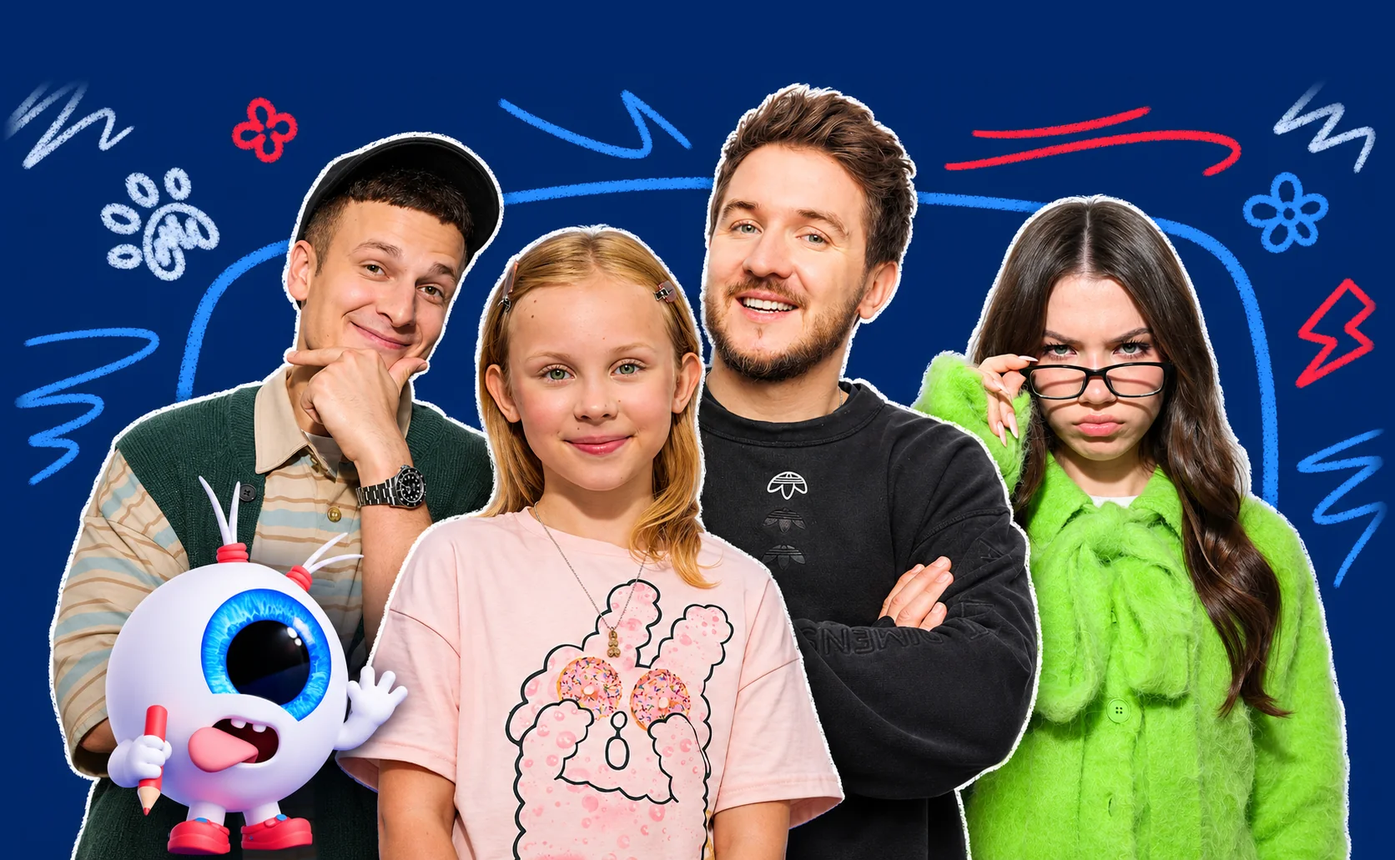
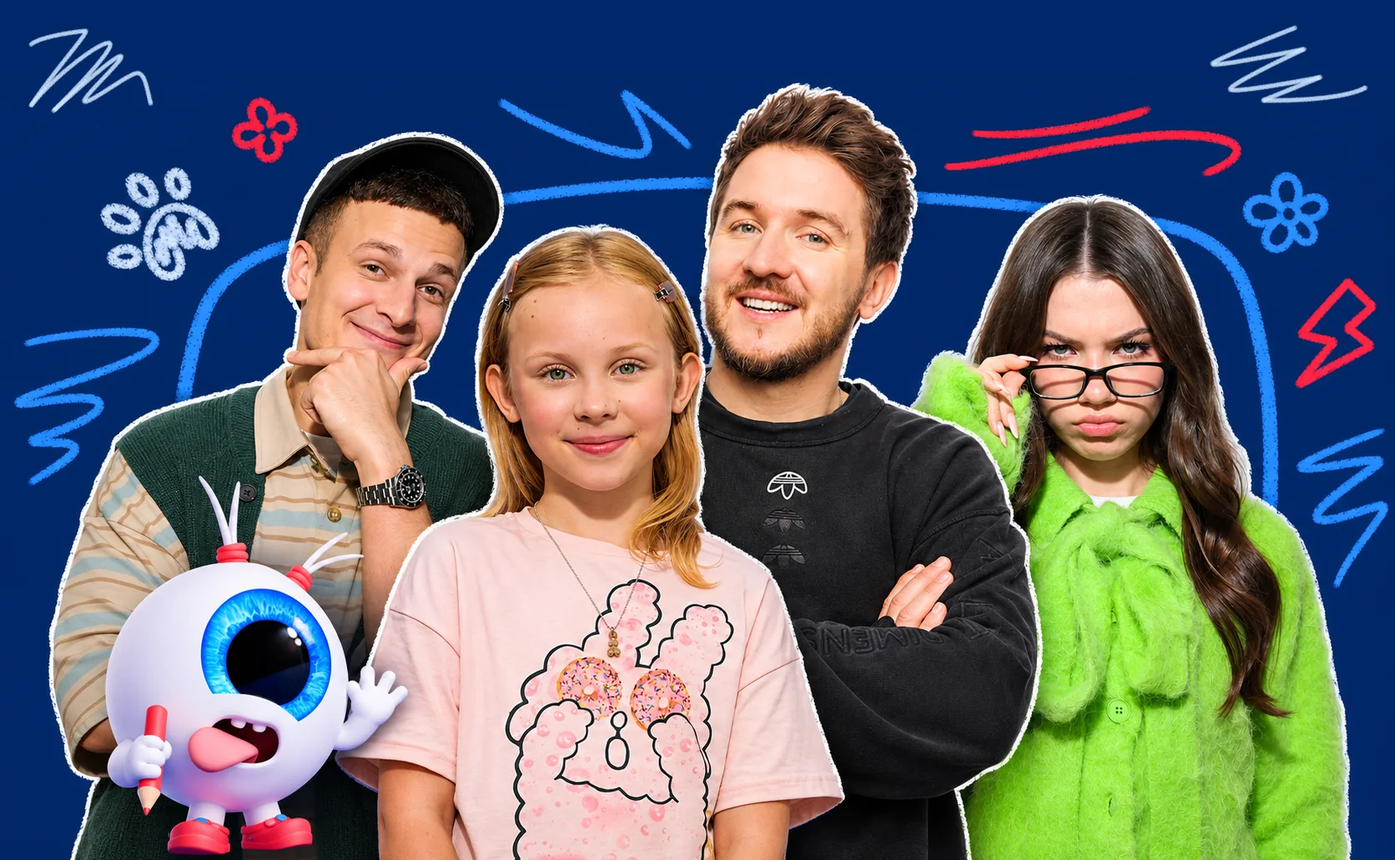
Коллаж Василисы 3:2 и меньше обложки, на обложке декор целиком

diff --git a/index.html b/index.html
@@ -19,7 +19,7 @@
   <meta name="twitter:card" content="summary_large_image">
   <title>«Так Бруно и Вики Шоу сказали!»: как популярные блогеры вместе с Василисой Кукоякой учат детей хорошему — VK Видео × НЭН</title>
   <link rel="preload" href="assets/fonts/onest-600.ttf" as="font" type="font/ttf" crossorigin>
-  <link rel="stylesheet" href="styles.css?v=6aa960fd">
+  <link rel="stylesheet" href="styles.css?v=72d95564">
   <script>document.documentElement.classList.add('js')</script>
   <script>
     // Страница отдается мимо шаблона сайта — общий счетчик сюда не попадает, поэтому свой.
@@ -48,7 +48,7 @@
       <h1 id="page-title"><span class="hl">«Так Бруно и Вики Шоу сказали!»:</span> как популярные блогеры вместе с Василисой Кукоякой учат детей хорошему в VK Видео</h1>
       <p class="subtitle">И почему иногда ребенок слушает их внимательнее родителей</p>
       <figure class="hero-media">
-        <img class="hero-image" src="assets/img/hero.webp?v=6aa960fd" width="1672" height="1031" alt="Василиса Кукояка, Вильям Бруно, Вики Шоу и Денис Кукояка" fetchpriority="high">
+        <img class="hero-image" src="assets/img/hero.webp?v=72d95564" width="1672" height="1031" alt="Василиса Кукояка, Вильям Бруно, Вики Шоу и Денис Кукояка" fetchpriority="high">
         <figcaption class="credit">Фото предоставлены VK</figcaption>
       </figure>
     </section>
@@ -62,15 +62,15 @@
     <figure class="collage reveal-collage" data-collage>
       <div class="collage-stage">
         <span class="collage-card chalk-box" aria-hidden="true"></span>
-        <img class="c-deco c-arcs" style="--d:-40" src="assets/img/deco-blue-arcs.webp?v=6aa960fd" alt="" aria-hidden="true">
-        <img class="c-deco c-zigzag" style="--d:-70" src="assets/img/deco-white-zigzag.webp?v=6aa960fd" alt="" aria-hidden="true">
-        <img class="c-deco c-flowers" style="--d:-60" src="assets/img/deco-flowers.webp?v=6aa960fd" alt="" aria-hidden="true">
-        <img class="c-deco c-lightning" style="--d:-90" src="assets/img/deco-lightning.webp?v=6aa960fd" alt="" aria-hidden="true">
-        <img class="c-deco c-arrow" style="--d:-30" src="assets/img/deco-blue-arrow.webp?v=6aa960fd" alt="" aria-hidden="true">
-        <img class="collage-person" src="assets/img/collage-vasya.webp?v=6aa960fd" width="886" height="1514" alt="Василиса Кукояка" loading="lazy">
-        <img class="c-deco c-red" style="--d:40" src="assets/img/deco-red-strokes.webp?v=6aa960fd" alt="" aria-hidden="true">
-        <img class="c-deco c-paw" style="--d:30" src="assets/img/deco-paw.webp?v=6aa960fd" alt="" aria-hidden="true">
-        <img class="c-deco c-eyeball" style="--d:-50" src="assets/img/eye-joy.webp?v=6aa960fd" alt="" aria-hidden="true">
+        <img class="c-deco c-arcs" style="--d:-40" src="assets/img/deco-blue-arcs.webp?v=72d95564" alt="" aria-hidden="true">
+        <img class="c-deco c-zigzag" style="--d:-70" src="assets/img/deco-white-zigzag.webp?v=72d95564" alt="" aria-hidden="true">
+        <img class="c-deco c-flowers" style="--d:-60" src="assets/img/deco-flowers.webp?v=72d95564" alt="" aria-hidden="true">
+        <img class="c-deco c-lightning" style="--d:-90" src="assets/img/deco-lightning.webp?v=72d95564" alt="" aria-hidden="true">
+        <img class="c-deco c-arrow" style="--d:-30" src="assets/img/deco-blue-arrow.webp?v=72d95564" alt="" aria-hidden="true">
+        <img class="collage-person" src="assets/img/collage-vasya.webp?v=72d95564" width="886" height="1514" alt="Василиса Кукояка" loading="lazy">
+        <img class="c-deco c-red" style="--d:40" src="assets/img/deco-red-strokes.webp?v=72d95564" alt="" aria-hidden="true">
+        <img class="c-deco c-paw" style="--d:30" src="assets/img/deco-paw.webp?v=72d95564" alt="" aria-hidden="true">
+        <img class="c-deco c-eyeball" style="--d:-50" src="assets/img/eye-joy.webp?v=72d95564" alt="" aria-hidden="true">
         <span class="collage-tag">Василиса Кукояка</span>
       </div>
       <figcaption class="credit">Фото предоставлено VK</figcaption>
@@ -86,18 +86,18 @@
 
       <div class="strip" data-strip aria-label="Кадры со съемок «ВК о важном»">
         <div class="strip-track">
-          <img src="assets/img/set-road.webp?v=6aa960fd" width="960" height="640" alt="Съемки выпуска о безопасности на дороге" loading="lazy">
-          <img src="assets/img/set-room.webp?v=6aa960fd" width="960" height="640" alt="Василиса и Вильям Бруно в декорации детской комнаты" loading="lazy">
-          <img src="assets/img/set-stranger.webp?v=6aa960fd" width="960" height="640" alt="Съемки выпуска о незнакомце" loading="lazy">
-          <img src="assets/img/set-door.webp?v=6aa960fd" width="960" height="640" alt="Василиса с блогером у двери подъезда" loading="lazy">
-          <img src="assets/img/set-playground.webp?v=6aa960fd" width="960" height="640" alt="Съемки на детской площадке" loading="lazy">
+          <img src="assets/img/set-road.webp?v=72d95564" width="960" height="640" alt="Съемки выпуска о безопасности на дороге" loading="lazy">
+          <img src="assets/img/set-room.webp?v=72d95564" width="960" height="640" alt="Василиса и Вильям Бруно в декорации детской комнаты" loading="lazy">
+          <img src="assets/img/set-stranger.webp?v=72d95564" width="960" height="640" alt="Съемки выпуска о незнакомце" loading="lazy">
+          <img src="assets/img/set-door.webp?v=72d95564" width="960" height="640" alt="Василиса с блогером у двери подъезда" loading="lazy">
+          <img src="assets/img/set-playground.webp?v=72d95564" width="960" height="640" alt="Съемки на детской площадке" loading="lazy">
         </div>
         <p class="credit credit-strip">Фото предоставлены VK</p>
       </div>
 
       <div class="text">
         <figure class="quote quote-denis reveal">
-          <figcaption><img class="ava" src="assets/img/ava-denis.webp?v=6aa960fd" width="240" height="240" alt="" loading="lazy"><span class="who"><b>Денис Кукояка</b><span>блогер, папа Василисы</span></span></figcaption>
+          <figcaption><img class="ava" src="assets/img/ava-denis.webp?v=72d95564" width="240" height="240" alt="" loading="lazy"><span class="who"><b>Денис Кукояка</b><span>блогер, папа Василисы</span></span></figcaption>
           <blockquote>
             <p>Дети гораздо лучше воспринимают информацию, когда она приходит через игру, а не в формате «нельзя». Мы хотим, чтобы маленькие зрители сыграли вместе с Василисой и кумирами детей и запомнили правила.</p>
             <p>Наш проект рассчитан одновременно на детей и родителей. Дети получают понятный и увлекательный контент в привычном формате, а родители — повод поговорить с ребенком о правилах и ситуациях, которые не всегда легко объяснить самостоятельно.</p>
@@ -108,7 +108,7 @@
     </section>
 
     <section class="chapter" id="phone">
-      <img class="edge-deco edge-l" style="top:40px" src="assets/img/deco-paw2.webp?v=6aa960fd" alt="" aria-hidden="true" loading="lazy">
+      <img class="edge-deco edge-l" style="top:40px" src="assets/img/deco-paw2.webp?v=72d95564" alt="" aria-hidden="true" loading="lazy">
       <div class="text">
         <h2 class="reveal">Шестьдесят часов видео за один день: выпуск про телефон</h2>
       </div>
@@ -120,7 +120,7 @@
         <p class="reveal">Почему к таким советам Вася прислушивается, а к родительскому «убирай телефон» — нет, Василиса объясняет сама.</p>
 
         <figure class="quote quote-vasilisa reveal">
-          <figcaption><img class="ava" src="assets/img/ava-vasilisa.webp?v=6aa960fd" width="240" height="240" alt="" loading="lazy"><span class="who"><b>Василиса Кукояка</b><span>блогер, ведущая проекта «ВК о важном»</span></span></figcaption>
+          <figcaption><img class="ava" src="assets/img/ava-vasilisa.webp?v=72d95564" width="240" height="240" alt="" loading="lazy"><span class="who"><b>Василиса Кукояка</b><span>блогер, ведущая проекта «ВК о важном»</span></span></figcaption>
           <blockquote>
             <p>Ну, потому что я тоже ребенок! И я сама люблю сидеть в телефоне. Я же не говорю, что телефон — это ужасно и его надо выбросить. Я сама бы так не сделала.</p>
             <p>Просто когда родители говорят: «Все, убирай телефон», тебе сразу не хочется его убирать. А когда другой ребенок тебе <span class="nw">что-то</span> рассказывает, ты понимаешь, что у него тоже такое бывает.</p>
@@ -129,7 +129,7 @@
       </div>
 
       <aside class="expert reveal" aria-label="Комментарий психолога">
-        <div class="expert-person"><div class="expert-photo"><img src="assets/img/kiselnikova.webp?v=6aa960fd" width="300" height="286" alt="Наталья Кисельникова" loading="lazy"></div><div><h3>Наталья Кисельникова</h3><p>кандидат психологических наук, методолог платформы психологической помощи детям, подросткам и родителям «Балансити»</p></div></div>
+        <div class="expert-person"><div class="expert-photo"><img src="assets/img/kiselnikova.webp?v=72d95564" width="300" height="286" alt="Наталья Кисельникова" loading="lazy"></div><div><h3>Наталья Кисельникова</h3><p>кандидат психологических наук, методолог платформы психологической помощи детям, подросткам и родителям «Балансити»</p></div></div>
         <div class="expert-copy">
           <p class="q">Милана говорит, что в телефоне нормально сидеть пару часов в день. Согласны ли вы с такой нормой?</p>
           <p>Младшим школьникам, лет семи-девяти, разумнее брать час с небольшим в день, а в десять-двенадцать лет — можно почти по два часа. Речь тут идет только о развлечениях: уроки и домашка сюда не входят. Это примерные ориентиры: жесткие лимиты в минутах ВОЗ и <a href="https://doi.org/10.1542/peds.2016-2591" target="_blank" rel="noopener noreferrer">Американская академия педиатрии</a> дают только для дошкольников, а родителям детей постарше советуют составить <a href="https://www.healthychildren.org/English/fmp/Pages/MediaPlan.aspx" target="_blank" rel="noopener noreferrer">семейный медиаплан</a>.</p>
@@ -141,7 +141,7 @@
     </section>
 
     <section class="chapter" id="fight">
-      <img class="edge-deco edge-r" style="top:20px" src="assets/img/deco-lightning.webp?v=6aa960fd" alt="" aria-hidden="true" loading="lazy">
+      <img class="edge-deco edge-r" style="top:20px" src="assets/img/deco-lightning.webp?v=72d95564" alt="" aria-hidden="true" loading="lazy">
       <div class="text">
         <h2 class="reveal">Кулаки отменяются, наорать тоже нельзя: выпуск про драку</h2>
       </div>
@@ -153,7 +153,7 @@
         <p class="reveal">Слова «драться нельзя» дети слышат постоянно, и Василиса признается, что как раз такие разговоры ей скучнее всего слушать.</p>
 
         <figure class="quote quote-vasilisa reveal">
-          <figcaption><img class="ava" src="assets/img/ava-vasilisa.webp?v=6aa960fd" width="240" height="240" alt="" loading="lazy"><span class="who"><b>Василиса Кукояка</b><span>блогер, ведущая проекта «ВК о важном»</span></span></figcaption>
+          <figcaption><img class="ava" src="assets/img/ava-vasilisa.webp?v=72d95564" width="240" height="240" alt="" loading="lazy"><span class="who"><b>Василиса Кукояка</b><span>блогер, ведущая проекта «ВК о важном»</span></span></figcaption>
           <blockquote>
             <p>Когда взрослые начинают говорить: «Так, сядь, послушай меня внимательно, сейчас я тебе объясню», я уже понимаю, что сейчас будет <span class="nw">что-то</span> скучное. Особенно когда они очень долго объясняют то, что я и так знаю. Ну типа, что драться нельзя. Я же знаю, что нельзя!</p>
           </blockquote>
@@ -162,7 +162,7 @@
         <p class="reveal">Денис с дочерью согласен.</p>
 
         <figure class="quote quote-denis reveal">
-          <figcaption><img class="ava" src="assets/img/ava-denis.webp?v=6aa960fd" width="240" height="240" alt="" loading="lazy"><span class="who"><b>Денис Кукояка</b><span>блогер, папа Василисы</span></span></figcaption>
+          <figcaption><img class="ava" src="assets/img/ava-denis.webp?v=72d95564" width="240" height="240" alt="" loading="lazy"><span class="who"><b>Денис Кукояка</b><span>блогер, папа Василисы</span></span></figcaption>
           <blockquote>
             <p>Мне кажется, просто говорить детям «драться плохо» довольно бессмысленно. Они и так это знают. Гораздо полезнее объяснить, что делать, если тебя обижают, провоцируют или травят.</p>
           </blockquote>
@@ -170,7 +170,7 @@
       </div>
 
       <aside class="expert reveal" aria-label="Комментарий психолога">
-        <div class="expert-person"><div class="expert-photo"><img src="assets/img/kiselnikova.webp?v=6aa960fd" width="300" height="286" alt="Наталья Кисельникова" loading="lazy"></div><div><h3>Наталья Кисельникова</h3><p>кандидат психологических наук, методолог платформы психологической помощи детям, подросткам и родителям «Балансити»</p></div></div>
+        <div class="expert-person"><div class="expert-photo"><img src="assets/img/kiselnikova.webp?v=72d95564" width="300" height="286" alt="Наталья Кисельникова" loading="lazy"></div><div><h3>Наталья Кисельникова</h3><p>кандидат психологических наук, методолог платформы психологической помощи детям, подросткам и родителям «Балансити»</p></div></div>
         <div class="expert-copy">
           <p class="q">Ребенок знает, что драться нельзя, но в момент обиды все равно лезет с кулаками. Почему?</p>
           <p>Знание правила и поведение в момент обиды работают отдельно. Помнить, что драться нельзя, — это сознательный контроль, а при сильном возбуждении он отключается одним из первых. Остается быстрая реакция: меня обидели, надо защищаться. Умение себя остановить развивается годами, так что младший школьник вполне может знать правило, соглашаться с ним и все равно нарушить.</p>
@@ -182,7 +182,7 @@
     </section>
 
     <section class="chapter" id="room">
-      <img class="edge-deco edge-l" style="top:120px" src="assets/img/deco-blue-arcs.webp?v=6aa960fd" alt="" aria-hidden="true" loading="lazy">
+      <img class="edge-deco edge-l" style="top:120px" src="assets/img/deco-blue-arcs.webp?v=72d95564" alt="" aria-hidden="true" loading="lazy">
       <div class="text">
         <h2 class="reveal">Плед-невидимка и тараканы в кукольном домике: выпуск про уборку</h2>
       </div>
@@ -193,7 +193,7 @@
         <p class="reveal">При этом сама Василиса знает, как родители могут мотивировать ее убираться.</p>
 
         <figure class="quote quote-vasilisa reveal">
-          <figcaption><img class="ava" src="assets/img/ava-vasilisa.webp?v=6aa960fd" width="240" height="240" alt="" loading="lazy"><span class="who"><b>Василиса Кукояка</b><span>блогер, ведущая проекта «ВК о важном»</span></span></figcaption>
+          <figcaption><img class="ava" src="assets/img/ava-vasilisa.webp?v=72d95564" width="240" height="240" alt="" loading="lazy"><span class="who"><b>Василиса Кукояка</b><span>блогер, ведущая проекта «ВК о важном»</span></span></figcaption>
           <blockquote>
             <p>Ну, я не очень люблю убираться. Особенно когда мне просто говорят: «Иди убирайся». Потому что я могу сейчас заниматься <span class="nw">чем-то</span> интересным, а тут надо все бросать и убираться.</p>
             <p>Мне было бы прикольнее, если бы мы, например, устроили соревнование, кто быстрее уберется. Или если бы мама со мной убиралась и мы бы включили музыку.</p>
@@ -203,7 +203,7 @@
       </div>
 
       <aside class="expert reveal" aria-label="Комментарий психолога">
-        <div class="expert-person"><div class="expert-photo"><img src="assets/img/kiselnikova.webp?v=6aa960fd" width="300" height="286" alt="Наталья Кисельникова" loading="lazy"></div><div><h3>Наталья Кисельникова</h3><p>кандидат психологических наук, методолог платформы психологической помощи детям, подросткам и родителям «Балансити»</p></div></div>
+        <div class="expert-person"><div class="expert-photo"><img src="assets/img/kiselnikova.webp?v=72d95564" width="300" height="286" alt="Наталья Кисельникова" loading="lazy"></div><div><h3>Наталья Кисельникова</h3><p>кандидат психологических наук, методолог платформы психологической помощи детям, подросткам и родителям «Балансити»</p></div></div>
         <div class="expert-copy">
           <p class="q">Почему «иди убирайся» вызывает у ребенка сопротивление, даже если сам он не против порядка?</p>
           <p>Во-первых, такая просьба почти всегда звучит не вовремя: ребенка прерывают ради дела, которое ему сейчас не нужно. Во-вторых, ему хочется самому распоряжаться собой, и сопротивляется он скорее форме требования, чем самой уборке. В-третьих, он не знает, с чего начать: семилетний ребенок видит гору вещей без всякой системы и тянет время. Со стороны это похоже на лень, хотя ему просто непонятна задача.</p>
@@ -213,13 +213,13 @@
     </section>
 
     <section class="chapter" id="why">
-      <img class="edge-deco edge-r" style="top:30px" src="assets/img/deco-flowers.webp?v=6aa960fd" alt="" aria-hidden="true" loading="lazy">
+      <img class="edge-deco edge-r" style="top:30px" src="assets/img/deco-flowers.webp?v=72d95564" alt="" aria-hidden="true" loading="lazy">
       <div class="text">
         <h2 class="reveal">Смешно и про тебя: почему ребенок слушает блогера</h2>
         <p class="reveal">Что должно происходить в видео, чтобы совет не звучал как нудное наставление, Василиса знает по опыту. Ее рецепт подойдет как детям, так и родителям.</p>
 
         <figure class="quote quote-vasilisa reveal">
-          <figcaption><img class="ava" src="assets/img/ava-vasilisa.webp?v=6aa960fd" width="240" height="240" alt="" loading="lazy"><span class="who"><b>Василиса Кукояка</b><span>блогер, ведущая проекта «ВК о важном»</span></span></figcaption>
+          <figcaption><img class="ava" src="assets/img/ava-vasilisa.webp?v=72d95564" width="240" height="240" alt="" loading="lazy"><span class="who"><b>Василиса Кукояка</b><span>блогер, ведущая проекта «ВК о важном»</span></span></figcaption>
           <blockquote>
             <p>Было бы интересно, если бы взрослые показывали все на примерах. Вот если рассказывают про Пушкина, то прикольно было бы, если бы пришел актер, который играет Пушкина. И мы бы смотрели, как он там <span class="nw">что-то</span> делает. Это же намного интереснее, чем просто сидеть и слушать.</p>
             <p>И еще мне нравится, когда можно самой <span class="nw">что-то</span> говорить, а не только слушать.</p>
@@ -228,13 +228,13 @@
         </figure>
       </div>
 
-      <figure class="photo-wrap reveal"><div class="photo" data-parallax><img src="assets/img/photo-swing.webp?v=6aa960fd" width="1600" height="1067" alt="Василиса на качелях с телефоном на съемках «ВК о важном»" loading="lazy"></div><figcaption class="credit">Фото предоставлено VK</figcaption></figure>
+      <figure class="photo-wrap reveal"><div class="photo" data-parallax><img src="assets/img/photo-swing.webp?v=72d95564" width="1600" height="1067" alt="Василиса на качелях с телефоном на съемках «ВК о важном»" loading="lazy"></div><figcaption class="credit">Фото предоставлено VK</figcaption></figure>
 
       <div class="text">
         <p class="reveal">При этом Василиса не выдает себя за человека, который знает ответ на все. Зрителю, у которого все в жизни может быть иначе, она отвечает так.</p>
 
         <figure class="quote quote-vasilisa reveal">
-          <figcaption><img class="ava" src="assets/img/ava-vasilisa.webp?v=6aa960fd" width="240" height="240" alt="" loading="lazy"><span class="who"><b>Василиса Кукояка</b><span>блогер, ведущая проекта «ВК о важном»</span></span></figcaption>
+          <figcaption><img class="ava" src="assets/img/ava-vasilisa.webp?v=72d95564" width="240" height="240" alt="" loading="lazy"><span class="who"><b>Василиса Кукояка</b><span>блогер, ведущая проекта «ВК о важном»</span></span></figcaption>
           <blockquote>
             <p>Ну, я же не знаю, что у тебя там в классе происходит. Может, у тебя все вообще по-другому. Вот у нас, например, мы с подружками на переменах можем все вместе пойти в туалет, есть там конфеты, смеяться, и нам очень весело. А у <span class="nw">кого-то</span>, может, вообще нет такой компании.</p>
             <p>Поэтому я не могу сказать, что у всех должно быть как у меня. Я просто рассказываю то, что думаю, и что мне самой помогает. А ты уже можешь попробовать, и если тебе не подходит, то придумать <span class="nw">что-нибудь</span> свое.</p>
@@ -242,7 +242,7 @@
         </figure>
 
         <figure class="quote quote-denis reveal">
-          <figcaption><img class="ava" src="assets/img/ava-denis.webp?v=6aa960fd" width="240" height="240" alt="" loading="lazy"><span class="who"><b>Денис Кукояка</b><span>блогер, папа Василисы</span></span></figcaption>
+          <figcaption><img class="ava" src="assets/img/ava-denis.webp?v=72d95564" width="240" height="240" alt="" loading="lazy"><span class="who"><b>Денис Кукояка</b><span>блогер, папа Василисы</span></span></figcaption>
           <blockquote>
             <p>Мы же сами иногда слушаем <span class="nw">какого-нибудь</span> человека в интернете, хотя жена или муж нам сто раз говорили то же самое.</p>
             <p>Может, дело просто в том, как это преподносится? Вася вот рассказывала, что ей было бы интереснее изучать Пушкина, если бы к ним пришел актер и сыграл его, а не просто учитель рассказывал. Мне кажется, родителям тоже иногда стоит менять подход. Но опять же, дело не столько в том, что ты говоришь ребенку, сколько в том, какой пример показываешь.</p>
@@ -252,7 +252,7 @@
       </div>
 
       <aside class="expert reveal" aria-label="Комментарий психолога">
-        <div class="expert-person"><div class="expert-photo"><img src="assets/img/kiselnikova.webp?v=6aa960fd" width="300" height="286" alt="Наталья Кисельникова" loading="lazy"></div><div><h3>Наталья Кисельникова</h3><p>кандидат психологических наук, методолог платформы психологической помощи детям, подросткам и родителям «Балансити»</p></div></div>
+        <div class="expert-person"><div class="expert-photo"><img src="assets/img/kiselnikova.webp?v=72d95564" width="300" height="286" alt="Наталья Кисельникова" loading="lazy"></div><div><h3>Наталья Кисельникова</h3><p>кандидат психологических наук, методолог платформы психологической помощи детям, подросткам и родителям «Балансити»</p></div></div>
         <div class="expert-copy">
           <p class="q">Почему дети так охотно повторяют за любимыми блогерами?</p>
           <p>Многому дети учатся, глядя на других: смотрят, как действует человек, что у него из этого вышло, и пробуют так же. Так работает обучение через наблюдение. Сильнее всего влияет пример того, кто похож на самого ребенка, кто ему симпатичен и у кого получается то, чего ему хочется. Блогер подходит по всем трем пунктам: он ненамного старше, шутит про те же вещи, и его смотрят тысячи людей.</p>
@@ -263,15 +263,15 @@
 
     <figure class="wide reveal-collage" data-collage>
       <div class="wide-stage wide-food">
-        <img class="c-deco w-arcs" style="--d:-40" src="assets/img/deco-blue-arcs.webp?v=6aa960fd" alt="" aria-hidden="true" loading="lazy">
-        <img class="c-deco w-zigzag" style="--d:-60" src="assets/img/deco-white-zigzag2.webp?v=6aa960fd" alt="" aria-hidden="true" loading="lazy">
-        <img class="c-deco w-red" style="--d:30" src="assets/img/deco-red-strokes.webp?v=6aa960fd" alt="" aria-hidden="true" loading="lazy">
-        <img class="c-deco w-flowers" style="--d:-50" src="assets/img/deco-flowers.webp?v=6aa960fd" alt="" aria-hidden="true" loading="lazy">
-        <img class="c-deco w-lightning" style="--d:-80" src="assets/img/deco-lightning.webp?v=6aa960fd" alt="" aria-hidden="true" loading="lazy">
-        <div class="w-card chalk-box chalk-white"><img src="assets/img/photo-filming.webp?v=6aa960fd" width="1600" height="1067" alt="Василиса на съемках «ВК о важном»" loading="lazy"></div>
-        <img class="w-person" src="assets/img/collage-denis.webp?v=6aa960fd" width="634" height="1314" alt="Денис Кукояка" loading="lazy">
-        <img class="c-deco w-paw" style="--d:25" src="assets/img/deco-paw.webp?v=6aa960fd" alt="" aria-hidden="true" loading="lazy">
-        <img class="c-deco w-eye" style="--d:-30" src="assets/img/eye-smile.webp?v=6aa960fd" alt="" aria-hidden="true" loading="lazy">
+        <img class="c-deco w-arcs" style="--d:-40" src="assets/img/deco-blue-arcs.webp?v=72d95564" alt="" aria-hidden="true" loading="lazy">
+        <img class="c-deco w-zigzag" style="--d:-60" src="assets/img/deco-white-zigzag2.webp?v=72d95564" alt="" aria-hidden="true" loading="lazy">
+        <img class="c-deco w-red" style="--d:30" src="assets/img/deco-red-strokes.webp?v=72d95564" alt="" aria-hidden="true" loading="lazy">
+        <img class="c-deco w-flowers" style="--d:-50" src="assets/img/deco-flowers.webp?v=72d95564" alt="" aria-hidden="true" loading="lazy">
+        <img class="c-deco w-lightning" style="--d:-80" src="assets/img/deco-lightning.webp?v=72d95564" alt="" aria-hidden="true" loading="lazy">
+        <div class="w-card chalk-box chalk-white"><img src="assets/img/photo-filming.webp?v=72d95564" width="1600" height="1067" alt="Василиса на съемках «ВК о важном»" loading="lazy"></div>
+        <img class="w-person" src="assets/img/collage-denis.webp?v=72d95564" width="634" height="1314" alt="Денис Кукояка" loading="lazy">
+        <img class="c-deco w-paw" style="--d:25" src="assets/img/deco-paw.webp?v=72d95564" alt="" aria-hidden="true" loading="lazy">
+        <img class="c-deco w-eye" style="--d:-30" src="assets/img/eye-smile.webp?v=72d95564" alt="" aria-hidden="true" loading="lazy">
         <span class="collage-tag w-tag">Денис Кукояка</span>
       </div>
       <figcaption class="credit">Фото предоставлены VK</figcaption>
@@ -283,7 +283,7 @@
         <p class="reveal">Готов ли сам Денис доверить блогеру разговор с дочерью о серьезных вещах?</p>
 
         <figure class="quote quote-denis reveal">
-          <figcaption><img class="ava" src="assets/img/ava-denis.webp?v=6aa960fd" width="240" height="240" alt="" loading="lazy"><span class="who"><b>Денис Кукояка</b><span>блогер, папа Василисы</span></span></figcaption>
+          <figcaption><img class="ava" src="assets/img/ava-denis.webp?v=72d95564" width="240" height="240" alt="" loading="lazy"><span class="who"><b>Денис Кукояка</b><span>блогер, папа Василисы</span></span></figcaption>
           <blockquote>
             <p>Я вообще считаю, что воспитание — это задача родителей, а не блогеров. Яблоко от яблони недалеко падает. И если ты хочешь <span class="nw">чему-то</span> научить своего ребенка, то сначала сам этому научись. Потому что дети в первую очередь смотрят на нас, на то, как мы живем и себя ведем, а не на то, что мы им рассказываем.</p>
             <p>А блогеры — они как раньше поп-звезды или телезвезды. Они всегда были и будут примерами для подражания. Но основа воспитания все равно идет из семьи, причем не через нравоучения, а через собственный пример.</p>
@@ -296,7 +296,7 @@
         <p class="reveal">Проверить, что ребенок смотрит качественный контент, по словам Дениса, можно по трем признакам.</p>
 
         <figure class="quote quote-denis reveal">
-          <figcaption><img class="ava" src="assets/img/ava-denis.webp?v=6aa960fd" width="240" height="240" alt="" loading="lazy"><span class="who"><b>Денис Кукояка</b><span>блогер, папа Василисы</span></span></figcaption>
+          <figcaption><img class="ava" src="assets/img/ava-denis.webp?v=72d95564" width="240" height="240" alt="" loading="lazy"><span class="who"><b>Денис Кукояка</b><span>блогер, папа Василисы</span></span></figcaption>
           <blockquote>
             <p>Первое — какие ценности транслирует блогер. Второе — не манипулирует ли он детьми ради просмотров. И третье — что остается у ребенка после просмотра, какие мысли и эмоции. Хочет ли он <span class="nw">что-то</span> создавать, придумывать, узнавать или просто бесконечно листать дальше.</p>
             <p>А сами просмотры вообще не показатель пользы. Можно делать прекрасный контент, который никто не смотрит, и полную ерунду на миллионы.</p>
@@ -311,15 +311,15 @@
 
     <figure class="wide reveal-collage" data-collage>
       <div class="wide-stage wide-after">
-        <img class="c-deco w-zigzag" style="--d:-60" src="assets/img/deco-white-zigzag.webp?v=6aa960fd" alt="" aria-hidden="true" loading="lazy">
-        <img class="c-deco w-red" style="--d:30" src="assets/img/deco-red-strokes.webp?v=6aa960fd" alt="" aria-hidden="true" loading="lazy">
-        <img class="c-deco w-arrow" style="--d:-40" src="assets/img/deco-blue-arrow.webp?v=6aa960fd" alt="" aria-hidden="true" loading="lazy">
-        <img class="c-deco w-flowers" style="--d:-50" src="assets/img/deco-flowers.webp?v=6aa960fd" alt="" aria-hidden="true" loading="lazy">
-        <img class="c-deco w-bluezig" style="--d:-70" src="assets/img/deco-blue-zigzag.webp?v=6aa960fd" alt="" aria-hidden="true" loading="lazy">
-        <img class="c-deco w-lightning" style="--d:-80" src="assets/img/deco-lightning.webp?v=6aa960fd" alt="" aria-hidden="true" loading="lazy">
-        <div class="w-card chalk-box chalk-white"><img src="assets/img/photo-desk.webp?v=6aa960fd" width="1600" height="1067" alt="Вики Шоу и Василиса за партой на съемках выпуска" loading="lazy"></div>
-        <img class="c-deco w-paw" style="--d:25" src="assets/img/deco-paw2.webp?v=6aa960fd" alt="" aria-hidden="true" loading="lazy">
-        <img class="c-deco w-eye" style="--d:-30" src="assets/img/eye-ivanika-joy.webp?v=6aa960fd" alt="" aria-hidden="true" loading="lazy">
+        <img class="c-deco w-zigzag" style="--d:-60" src="assets/img/deco-white-zigzag.webp?v=72d95564" alt="" aria-hidden="true" loading="lazy">
+        <img class="c-deco w-red" style="--d:30" src="assets/img/deco-red-strokes.webp?v=72d95564" alt="" aria-hidden="true" loading="lazy">
+        <img class="c-deco w-arrow" style="--d:-40" src="assets/img/deco-blue-arrow.webp?v=72d95564" alt="" aria-hidden="true" loading="lazy">
+        <img class="c-deco w-flowers" style="--d:-50" src="assets/img/deco-flowers.webp?v=72d95564" alt="" aria-hidden="true" loading="lazy">
+        <img class="c-deco w-bluezig" style="--d:-70" src="assets/img/deco-blue-zigzag.webp?v=72d95564" alt="" aria-hidden="true" loading="lazy">
+        <img class="c-deco w-lightning" style="--d:-80" src="assets/img/deco-lightning.webp?v=72d95564" alt="" aria-hidden="true" loading="lazy">
+        <div class="w-card chalk-box chalk-white"><img src="assets/img/photo-desk.webp?v=72d95564" width="1600" height="1067" alt="Вики Шоу и Василиса за партой на съемках выпуска" loading="lazy"></div>
+        <img class="c-deco w-paw" style="--d:25" src="assets/img/deco-paw2.webp?v=72d95564" alt="" aria-hidden="true" loading="lazy">
+        <img class="c-deco w-eye" style="--d:-30" src="assets/img/eye-ivanika-joy.webp?v=72d95564" alt="" aria-hidden="true" loading="lazy">
       </div>
       <figcaption class="credit">Фото предоставлено VK</figcaption>
     </figure>
@@ -330,7 +330,7 @@
         <p class="reveal">После просмотра разговор можно продолжить дома.</p>
 
         <figure class="quote quote-denis reveal">
-          <figcaption><img class="ava" src="assets/img/ava-denis.webp?v=6aa960fd" width="240" height="240" alt="" loading="lazy"><span class="who"><b>Денис Кукояка</b><span>блогер, папа Василисы</span></span></figcaption>
+          <figcaption><img class="ava" src="assets/img/ava-denis.webp?v=72d95564" width="240" height="240" alt="" loading="lazy"><span class="who"><b>Денис Кукояка</b><span>блогер, папа Василисы</span></span></figcaption>
           <blockquote>
             <p>Я просто люблю спрашивать Васю: а как бы она сама поступила в такой ситуации? И иногда выясняется, что она вообще увидела в истории <span class="nw">что-то</span> совершенно другое. Мне это даже интереснее. Я не пытаюсь добиться от нее правильного ответа. Мне хочется понять, как она сама рассуждает.</p>
             <p>Я вообще всегда призываю родителей как можно больше разговаривать со своими детьми. Для меня это, наверное, суть воспитания. Чтобы ребенок не закрывался, не боялся <span class="nw">что-то</span> рассказать, не оставался один на один со своими проблемами.</p>
@@ -340,7 +340,7 @@
       </div>
 
       <aside class="expert reveal" aria-label="Комментарий психолога">
-        <div class="expert-person"><div class="expert-photo"><img src="assets/img/kiselnikova.webp?v=6aa960fd" width="300" height="286" alt="Наталья Кисельникова" loading="lazy"></div><div><h3>Наталья Кисельникова</h3><p>кандидат психологических наук, методолог платформы психологической помощи детям, подросткам и родителям «Балансити»</p></div></div>
+        <div class="expert-person"><div class="expert-photo"><img src="assets/img/kiselnikova.webp?v=72d95564" width="300" height="286" alt="Наталья Кисельникова" loading="lazy"></div><div><h3>Наталья Кисельникова</h3><p>кандидат психологических наук, методолог платформы психологической помощи детям, подросткам и родителям «Балансити»</p></div></div>
         <div class="expert-copy">
           <p class="q">Как поговорить с ребенком после просмотра, чтобы разговор не превратился в проверочную работу?</p>
           <p>Разговор становится проверкой, если взрослый заранее знает правильный ответ и ждет, чтобы ребенок его произнес. Лучше начать с впечатлений: что понравилось, что было смешным, какой момент запомнился. Потом спросить про героя: «Как думаешь, почему он так сделал?», «Что он в этот момент чувствовал?» Про персонажа дети говорят охотнее, чем про себя. А если ребенок разговорился, можно спросить: «У вас в классе бывает похожее?»</p>
@@ -352,6 +352,6 @@
     <div class="page-end" aria-hidden="true"></div>
   </main>
   <noscript><div><img src="https://mc.yandex.ru/watch/41151484" style="position:absolute;left:-9999px" alt=""></div></noscript>
-  <script src="app.js?v=6aa960fd" defer></script>
+  <script src="app.js?v=72d95564" defer></script>
 </body>
 </html>

diff --git a/styles.css b/styles.css
@@ -69,20 +69,20 @@ h1{font-size:58px;font-weight:600;line-height:1.04;letter-spacing:-.03em;color:v
 h2{font-size:40px;font-weight:600;line-height:1.12;letter-spacing:-.02em;color:var(--white);margin:0 0 30px;text-wrap:balance}
 
 /* коллаж с Василисой */
-.collage{width:min(900px,calc(100% - 48px));margin:72px auto 0}
-.collage-stage{position:relative;aspect-ratio:4/3}
-.collage-card{position:absolute;left:15%;right:15%;top:25%;bottom:14px}
+.collage{width:min(800px,calc(100% - 48px));margin:72px auto 0}
+.collage-stage{position:relative;aspect-ratio:3/2}
+.collage-card{position:absolute;left:18%;right:18%;top:22%;bottom:14px}
 .collage-card::after{inset:-14px}
 .collage-person{position:absolute;bottom:0;left:50%;height:100%;width:auto;max-width:none;translate:-50% 0;transition:translate 1s cubic-bezier(.2,.8,.2,1),opacity .7s ease}
 .c-deco{position:absolute;max-width:none;height:auto;translate:0 calc(var(--cp,0) * var(--d,0) * 1px);transition:opacity .5s ease,scale .7s cubic-bezier(.3,1.5,.5,1),rotate .7s cubic-bezier(.3,1.5,.5,1)}
-.c-arcs{left:0;top:30%;width:15%}
-.c-zigzag{left:10%;top:3%;width:16%}
-.c-flowers{right:11%;top:2%;width:13%}
-.c-lightning{right:25%;top:15%;width:8.5%}
-.c-arrow{right:0;top:42%;width:26%}
-.c-red{left:0;top:63%;width:31%}
-.c-paw{left:18%;bottom:6%;width:10%}
-.c-eyeball{right:6%;bottom:-2%;width:18%}
+.c-arcs{left:3%;top:26%;width:13%}
+.c-zigzag{left:12%;top:2%;width:13%}
+.c-flowers{right:12%;top:1%;width:10%}
+.c-lightning{right:27%;top:12%;width:7%}
+.c-arrow{right:1%;top:40%;width:24%}
+.c-red{left:0;top:62%;width:28%}
+.c-paw{left:22%;bottom:6%;width:8%}
+.c-eyeball{right:9%;bottom:-2%;width:17%}
 .collage-tag{position:absolute;left:50%;bottom:7%;translate:-50% 0;rotate:-4deg;white-space:nowrap;padding:12px 26px 14px;background:url('assets/img/chalk-tag-red.webp') center/100% 100% no-repeat;color:#fff;font-size:24px;font-weight:600;line-height:1;transition:scale .6s cubic-bezier(.3,1.5,.5,1) .5s,opacity .4s ease .5s}
 .js .reveal-collage:not(.in) .collage-person{translate:-50% 7%;opacity:0}
 .js .reveal-collage:not(.in) .c-deco{opacity:0;scale:.3;rotate:-25deg}
@@ -199,17 +199,10 @@ h2{font-size:40px;font-weight:600;line-height:1.12;letter-spacing:-.02em;color:v
   .strip-track img{width:250px;border-radius:14px}
 
   .collage{width:calc(100% - 32px);margin-top:56px}
-  .collage-stage{aspect-ratio:1/1.12}
-  .collage-card{left:7%;right:7%;top:24%;border-radius:26px}
-  .c-arcs{left:0;top:27%;width:19%}
-  .c-zigzag{left:1%;top:5%;width:23%}
-  .c-flowers{right:2%;top:4%;width:19%}
-  .c-lightning{right:12%;top:27%;width:12%}
-  .c-arrow{right:0;top:48%;width:28%}
-  .c-red{left:0;top:66%;width:34%}
-  .c-paw{left:10%;bottom:4%;width:14%}
-  .c-eyeball{right:1%;bottom:-2%;width:27%}
-  .collage-tag{font-size:17px;padding:10px 18px 11px;bottom:6%}
+  .collage-card{left:15%;right:15%}
+  .collage-card::after{inset:-11px}
+  .c-eyeball{right:6%;width:20%}
+  .collage-tag{font-size:14px;padding:8px 13px 9px;bottom:6%}
 
   .quote{padding-left:20px;margin:30px 0 32px}
   .quote figcaption{gap:12px}
